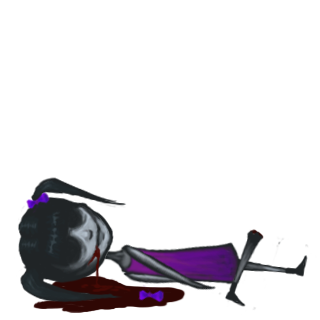
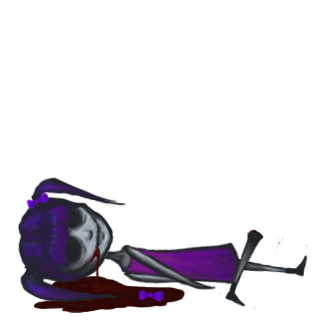
Death can happen now

Changed region(s): [[0.0625, 0.5625, 0.2812, 0.9375]]

diff --git a/hinder/Assets/Player/Player.cs b/hinder/Assets/Player/Player.cs
@@ -28,8 +28,13 @@ public class Player : Being
 	private float _maxAttackRate = 1.0f;
 	private float _lastAttack = 0.0f;
 
+
 	[SerializeField]
-	private GameObject _attackObject;
+	private Transform _attackCenter;
+
+	[SerializeField]
+	private LayerMask _enemyLayers;
+
 
 
 	void Awake()
@@ -81,22 +86,21 @@ public class Player : Being
 		{
 			_lastAttack = Time.time;
 			_animator.SetTrigger("OnAttack");
-			StartCoroutine(DoAttack());
+
+			foreach(var hit in Physics2D.OverlapCircleAll(_attackCenter.position, 0.5f, _enemyLayers))
+			{
+				AttackLanded (hit);
+			}
 		}
 	}
 
-	IEnumerator DoAttack()
+	public void AttackLanded(Collider2D colliderHit)
 	{
-		_attackObject.SetActive(true);
-		yield return 0;
-		_attackObject.SetActive(false);
-	}
-
-	public void AttackLanded(Collision2D colliderHit)
-	{
+		Debug.Log ("Landed an attack");
 		var beingHit = colliderHit.gameObject.GetComponentInChildren<Being>();
 		if( beingHit )
 		{
+			Debug.Log ("Hit", beingHit);
 			beingHit.RecieveDamage(_attackDamage);
 			AttackLandedThisFrame();
 		}
@@ -116,6 +120,7 @@ public class Player : Being
 	{
 		var speed = _inputMovement * _speed * Time.fixedDeltaTime;
 		rigidbody2D.velocity = new Vector2(speed, rigidbody2D.velocity.y);
+
 		_animator.SetFloat("X-Speed", rigidbody2D.velocity.x);
 		_animator.SetFloat("Y-Speed", rigidbody2D.velocity.y);
 
@@ -136,7 +141,7 @@ public class Player : Being
 			_groundLayers.value
 		);
 
-		Debug.DrawLine(rigidbody2D.position, rigidbody2D.position + Vector2.up * -0.66f);
+		//Debug.DrawLine(rigidbody2D.position, rigidbody2D.position + Vector2.up * -0.66f);
 
 		_animator.SetBool("IsGrounded", _grounded);
 	}
@@ -145,6 +150,11 @@ public class Player : Being
 	public override void TimeToDie ()
 	{
 		_animator.SetTrigger("OnDeath");
+
+		foreach(var col in gameObject.GetComponents<Collider2D>())
+			Destroy (col);
+
+		Destroy (gameObject.GetComponent<Rigidbody2D>());
 		Destroy (this);
 	}
 }
